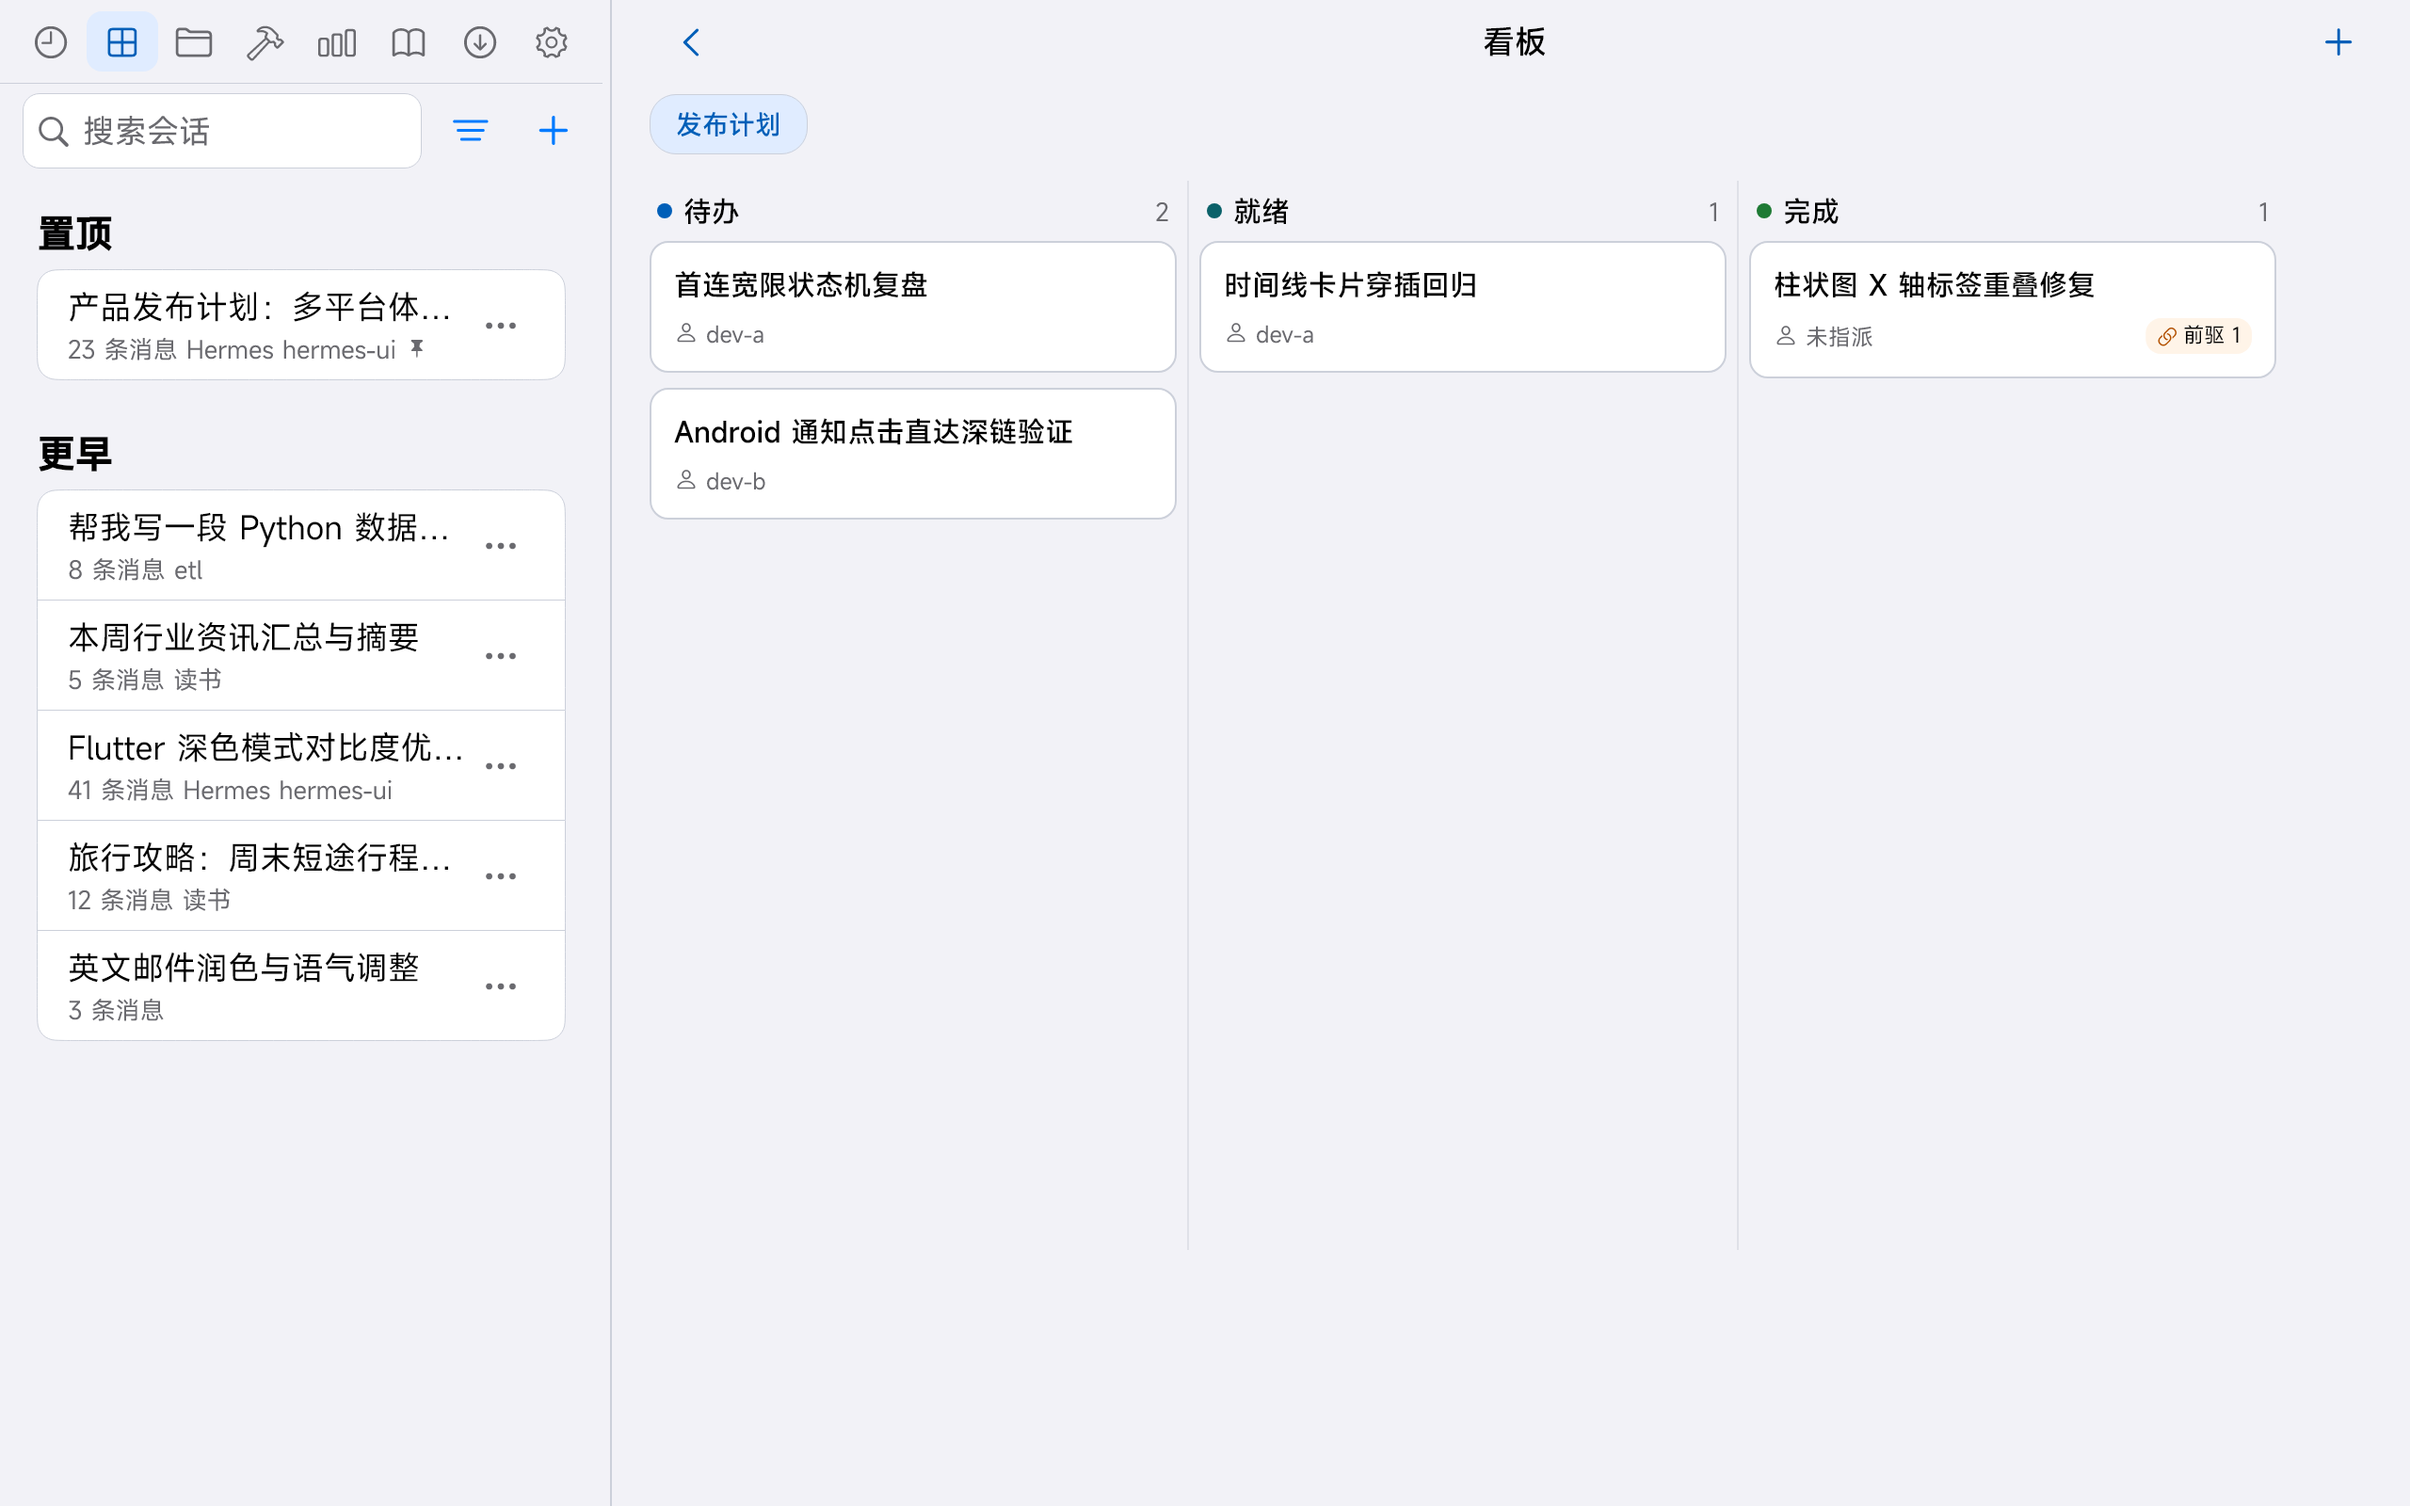
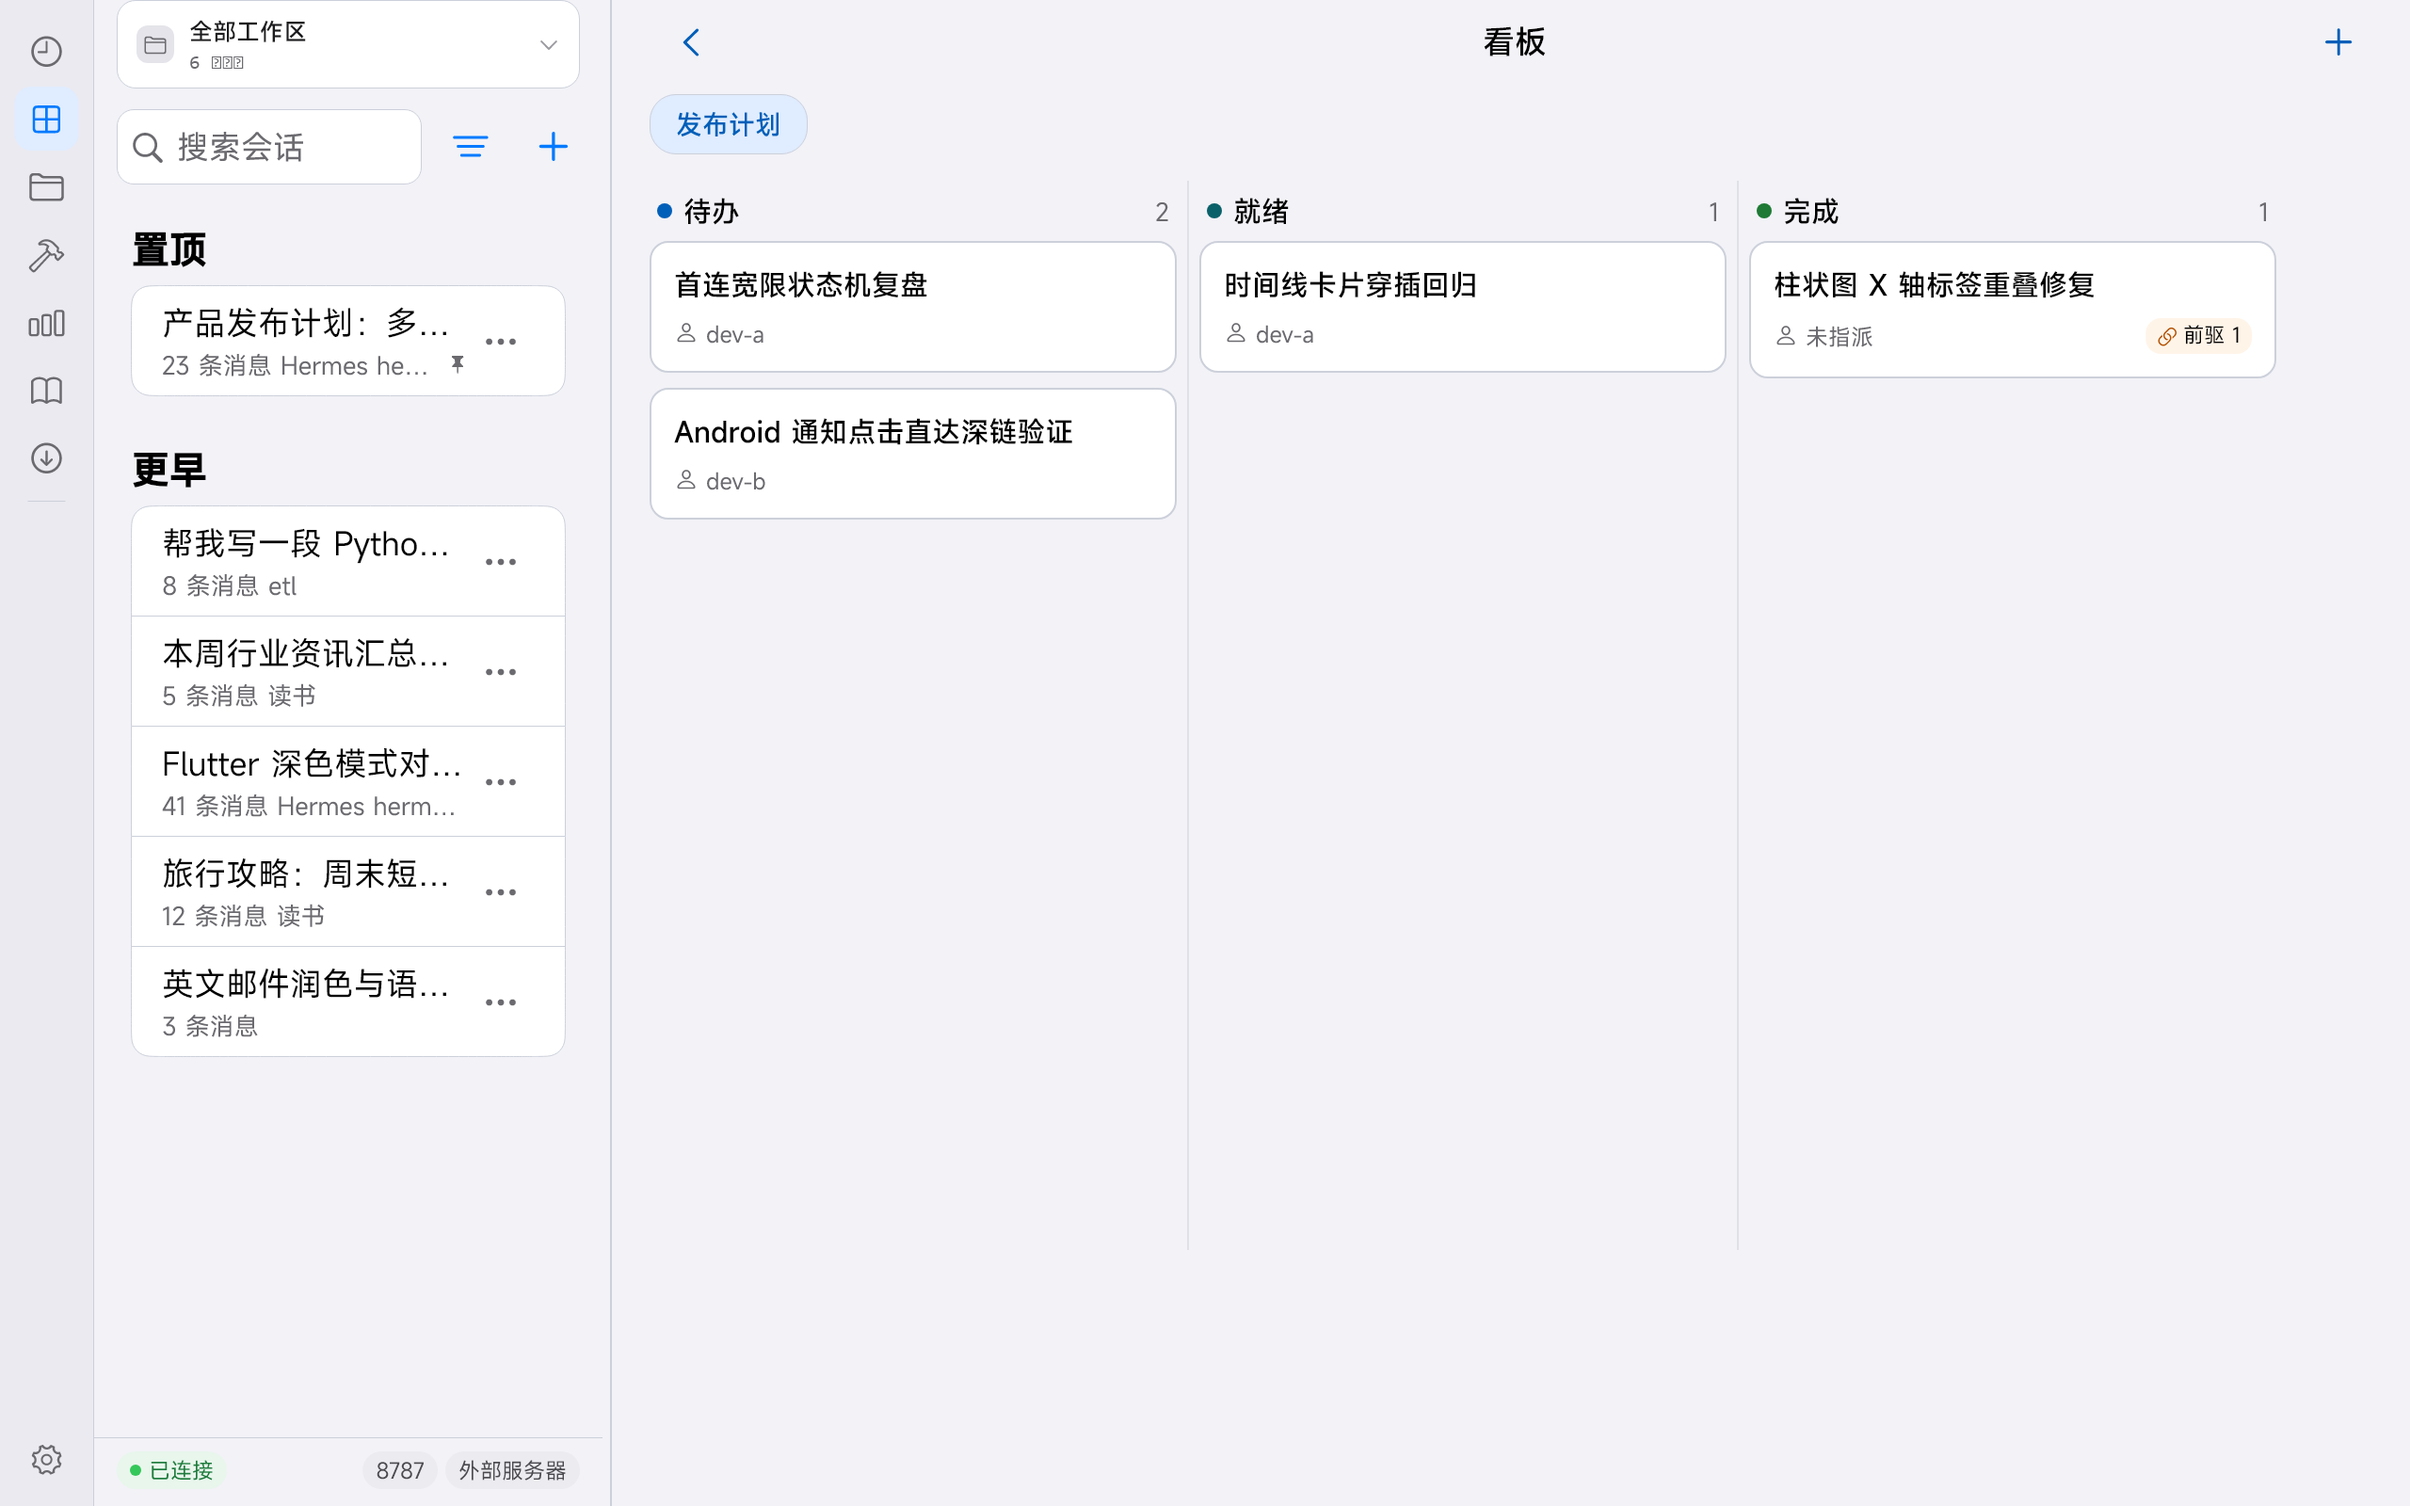
docs(screenshots): README 宽屏截图随 #145 外壳改版更新 + 工装注入工作区数据
- 宽屏 4 张（chat/sessions/kanban/insights）重出：侧栏竖排导航轨、
  底部连接状态条、列表顶部工作区选择器、输入栏工作区/模型 chip 全部入镜
- 窄屏 3 张零变更（chip 在 <600px 本就不渲染，与设计一致）
- 工装 readme_shots_test 新增 demoWorkspaceOverrides：注入固定工作区/模型清单。
  不注入则组件遇空列表自渲染为零尺寸，图里看不到这两个新件；chat 用例的
  fake session 补 workspace/model 字段，让 chip 显示真实值而非虚线空态。

diff --git a/test/screenshots/readme_shots_test.dart b/test/screenshots/readme_shots_test.dart
@@ -16,6 +16,8 @@ import 'package:hermes_ui/core/connections/server_connection.dart';
 import 'package:hermes_ui/core/models/insights.dart';
 import 'package:hermes_ui/core/models/kanban.dart';
 import 'package:hermes_ui/core/models/session.dart';
+import 'package:hermes_ui/core/models/workspace.dart';
+import 'package:hermes_ui/core/providers/catalog_providers.dart';
 import 'package:hermes_ui/features/chat/chat_page.dart';
 import 'package:hermes_ui/features/chat/chat_providers.dart';
 import 'package:hermes_ui/features/insights/insights_api.dart';
@@ -106,6 +108,20 @@ Future<ConnectionStore> demoConnectionStore() async {
 }
 
 /// 演示会话列表数据（中性文案，固定时钟防漂移）。
+/// #145：侧栏工作区选择器与输入区元信息 chip 都要读目录数据。截图工装注入
+/// 一份固定清单，否则组件遇空列表会自渲染为零尺寸——图里看不到它们。
+final demoWorkspaceOverrides = <Override>[
+  workspaceRootsProvider.overrideWith(
+    (ref) => Future.value(const [
+      WorkspaceRoot(path: r'D:\projects\hermes-ui', name: 'hermes-ui'),
+      WorkspaceRoot(path: r'D:\projects\book-hub', name: 'book-hub'),
+    ]),
+  ),
+  availableModelIdsProvider.overrideWith(
+    (ref) => Future.value(const ['claude-opus-4.6', 'gemini-3.8-flash-high']),
+  ),
+];
+
 FakeSessionListApi demoSessionApi() {
   final fixed = DateTime(2026, 9, 12, 12, 0);
   double at(Duration ago) =>
@@ -312,6 +328,10 @@ void main() {
       'session': {
         'session_id': 's-demo-1',
         'title': _demoTitles[0],
+        // #145：让输入区 chip 显示真实值（而非虚线空态），README 图才是
+        // 日常使用中的样子。
+        'workspace': r'D:\projects\hermes-ui',
+        'model': 'claude-opus-4.6',
         'messages': [
           {
             'role': 'user',
@@ -360,6 +380,7 @@ void main() {
       overrides: [
         chatApiProvider.overrideWithValue(api),
         sessionListApiFactoryProvider.overrideWithValue((_) => demoSessionApi()),
+        ...demoWorkspaceOverrides,
       ],
     );
   }, skip: !_capture);
@@ -372,6 +393,7 @@ void main() {
       physicalSize: const Size(2560, 1600),
       overrides: [
         sessionListApiFactoryProvider.overrideWithValue((_) => demoSessionApi()),
+        ...demoWorkspaceOverrides,
       ],
     );
   }, skip: !_capture);
@@ -444,6 +466,7 @@ void main() {
       overrides: [
         kanbanApiFactoryProvider.overrideWithValue((_) => api),
         sessionListApiFactoryProvider.overrideWithValue((_) => demoSessionApi()),
+        ...demoWorkspaceOverrides,
       ],
     );
   }, skip: !_capture);
@@ -459,6 +482,7 @@ void main() {
           (_) => FakeInsightsApi(response: demoInsights()),
         ),
         sessionListApiFactoryProvider.overrideWithValue((_) => demoSessionApi()),
+        ...demoWorkspaceOverrides,
       ],
     );
   }, skip: !_capture);
@@ -510,6 +534,7 @@ void main() {
       overrides: [
         chatApiProvider.overrideWithValue(api),
         sessionListApiFactoryProvider.overrideWithValue((_) => demoSessionApi()),
+        ...demoWorkspaceOverrides,
       ],
     );
   }, skip: !_capture);
@@ -522,6 +547,7 @@ void main() {
       physicalSize: const Size(780, 1688),
       overrides: [
         sessionListApiFactoryProvider.overrideWithValue((_) => demoSessionApi()),
+        ...demoWorkspaceOverrides,
       ],
     );
   }, skip: !_capture);
@@ -572,6 +598,7 @@ void main() {
           ),
         ),
         sessionListApiFactoryProvider.overrideWithValue((_) => demoSessionApi()),
+        ...demoWorkspaceOverrides,
       ],
     );
   }, skip: !_capture);
